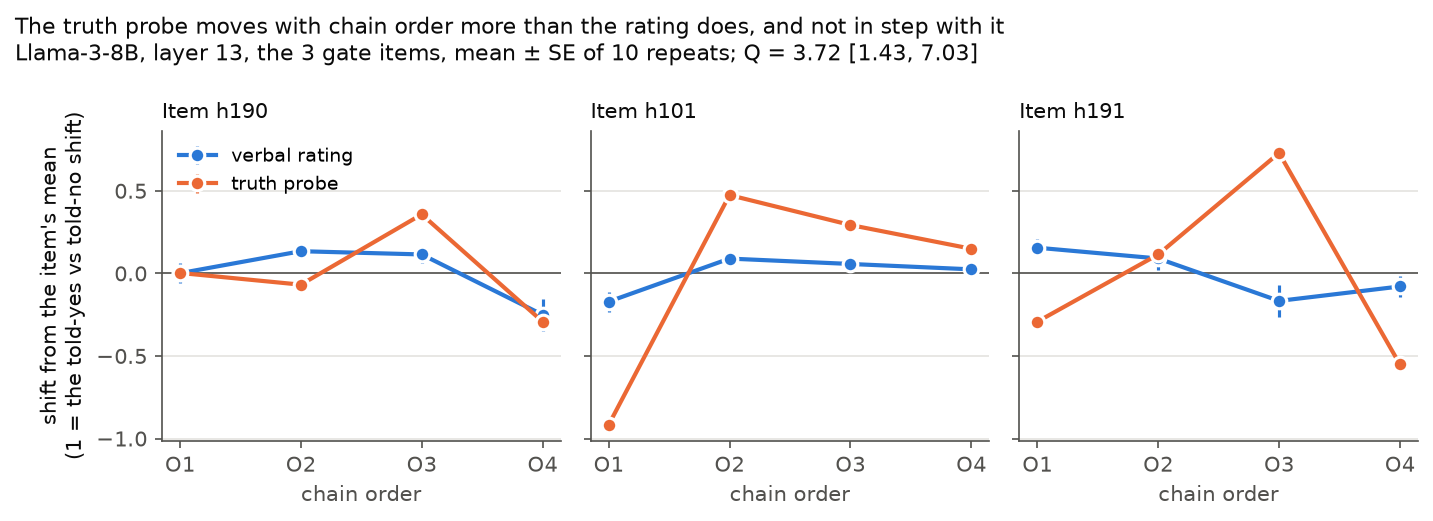
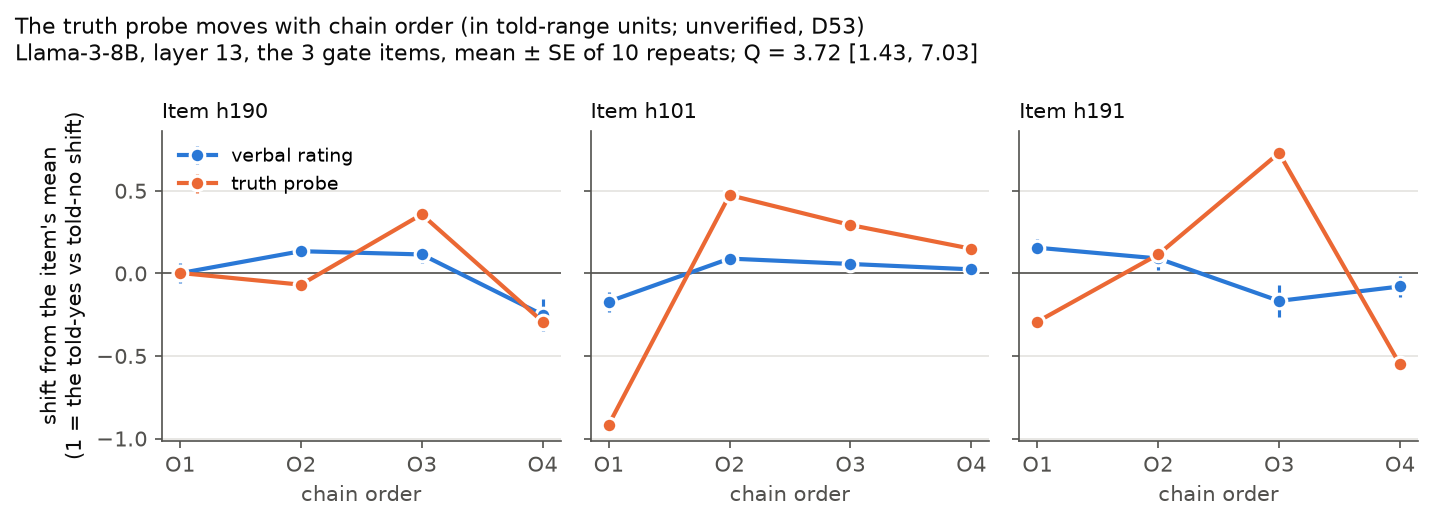
Probe-dissociation result (DP1) marked unverified: step 3 replayed the gate conversations (500 of 500 identical); fresh step 3 on new seeds queued on branch probes (ad1667d); figure title corrected (D53)

Changed region(s): [[0.307, 0.0307, 0.7062, 0.0921]]

diff --git a/experiments/probe_dissociation_figure.py b/experiments/probe_dissociation_figure.py
@@ -46,7 +46,7 @@ for ax, (title, q) in zip(axes, panels):
 axes[0].set_ylabel("shift from the item's mean\n(1 = the told-yes vs told-no shift)")
 axes[0].legend(frameon=False, loc="upper left", fontsize=9)
 s, c = res["stats"], res["ci"]
-fig.suptitle("The truth probe moves with chain order more than the rating does, and not in step with it\n"
+fig.suptitle("The truth probe moves with chain order (in told-range units; unverified, D53)\n"
              f"Llama-3-8B, layer {L}, the 3 gate items, mean \u00b1 SE of 10 repeats; Q = {s['Q']:.2f} "
              f"[{c['Q'][0]:.2f}, {c['Q'][1]:.2f}]", x=0.01, ha="left", fontsize=10.5, color=INK)
 fig.tight_layout()

diff --git a/DEVIATIONS.md b/DEVIATIONS.md
@@ -1043,6 +1043,28 @@ Where several audits targeted one sentence, their replacements were composed in 
 
 **Unchanged.** No quantum advantage and no quantum signature in either reading. The label moves from "could not tell apart" to "classical", because the parameter-free quantum signature is contradicted.
 
+## D53 — The probe-dissociation result (DP1) marked unverified; a fresh step 3 on new seeds queued for the probes worktree
+
+**Date:** 2026-11-04 13:19 MST, after the audit (`audits/probe-dissociation.md`, hole 1).
+
+**Why.** DP1's pre-registration says selection (the gate) and test (step 3) use different conversations. But both steps seed each conversation from the same key, `seed_for(f"{lm.name}|{qid}|{cell}|{rep}")`. The audit found step 3's O1–O4 and B0 verbal ratings identical to the gate's in 500 of 500 conversations.
+- So validity check V4 tested nothing.
+- Step 3's verbal order effects on the gate items are the selection data, with its winner's curse.
+- The frozen label, PROBE MOVES, BUT NOT WITH THE RATING, therefore rests on a test that was not independent of selection.
+
+**What changed.**
+- `results/probe-dissociation.md` (a banner under the title), README, the morning brief (a new direction-5 section) and `paper/gold-map.md` §5 (which said "Nothing yet") mark the DP1 result **unverified**.
+- The figure title (`probe_dissociation_figure.py`, `paper/figures/fig3-probe-dissociation.*`) no longer says the probe moves "more than the rating does, and not in step with it"; it says "unverified, D53".
+- Its numbers and label are kept, as recorded.
+
+**Queued.** On branch `probes`, commit `ad1667d`, `experiments/QUEUED-probe-step3-fresh-seeds.md` sets out a fresh step 3:
+- the same model, gate items, probe and layer, cells, R and analysis;
+- sampler seeds from a new namespace (`step3-fresh`);
+- a pre-run check that the fresh ratings do not replay the gate's;
+- the audit's alternative Q scalings, the Holm-corrected gate and r without h191, as secondaries.
+
+It is to be frozen as DP2 in its own commit before any run. Nothing has been run.
+
 ---
 
 # Probes branch (`probes`): entry DP1

diff --git a/paper/gold-map.md b/paper/gold-map.md
@@ -267,7 +267,7 @@ So the EIG of each possible check about *its own* main answer is computable. Tha
 - **Knowing more than they say.** Models can encode the right answer while generating a wrong one (Orgad et al., arXiv:2410.02707).
 - **The gap:** nobody has varied *question order* while reading probes.
 
-**What today's data say.** Nothing yet: Claude's internals are not available. The behavioural side, large graded order effects, is established in experiment 5.
+**What today's data say.** Claude's internals are not available. The behavioural side, graded order effects, is established in experiment 5. Since written: run on Llama-3-8B (DP1, `results/probe-dissociation.md`), with the frozen label PROBE MOVES, BUT NOT WITH THE RATING. That result is **unverified** (D53): its test step replayed the gate's conversations, and a fresh step 3 on new seeds is queued.
 
 **Cheapest falsifiable first test.**
 - **Model:** an open-weight model run locally. Good candidates are Llama-3-8B (4-bit) or Mistral-7B, where truth probes are established. Qwen2.5-1.5B is reported to have a truth axis (arXiv:2607.16741, search snippet only), but must be checked first.

diff --git a/results/probe-dissociation.md b/results/probe-dissociation.md
@@ -1,5 +1,7 @@
 # Belief versus readout: does a truth probe move with question order? (gold map direction 5)
 
+> **UNVERIFIED (D53).** Step 3 was meant to test on conversations different from the gate's, but both steps seed each conversation from the same key, so step 3's O1–O4 and B0 verbal ratings replay the gate's exactly (500 of 500 identical; `audits/probe-dissociation.md`, hole 1). Validity check V4 therefore tested nothing, and the gate items' verbal order effects are the selection data. The label and numbers below are kept as recorded but are not verified. A fresh step 3 on new seeds is queued on branch `probes` (`experiments/QUEUED-probe-step3-fresh-seeds.md`), to be frozen as DP2 before it runs.
+
 Pre-registered in `experiments/probe-dissociation.md` (DP1, numbered D48 on the `probes` branch; frozen in `9ef909d` before any call on the study items). Llama-3-8B-Instruct, 4-bit, run locally through MLX on an M2 Pro. 1,200 conversations, **$0 API**.
 
 ## In plain English

diff --git a/paper/morning-brief.md b/paper/morning-brief.md
@@ -117,6 +117,10 @@ Directions 1, 2 and 3 were re-run with Sonnet and Opus as the model under test, 
 - **On Sonnet the order effect survives hiding the record** (R = 2.95 [0.99, 12.55]; 2 items carry most of it). On Opus the test is not decisive.
 - **The paper.** `paper/no-credence-to-read.md` was narrowed to these limits (D48, new Section 4.6).
 
+### Gold-map direction 5: a truth probe on a local model (branch `probes`, merged; DP1, $0)
+
+- **Unverified (D53).** On Llama-3-8B the frozen label was PROBE MOVES, BUT NOT WITH THE RATING (Q = 3.72 [1.43, 7.03] in told-range units; r = +0.31 [−0.49, +0.99] over three gate items). But its test step replayed the gate's conversations exactly (500 of 500), so it was not independent of selection. A fresh step 3 on new seeds is queued on the `probes` branch. Details: `results/probe-dissociation.md`.
+
 ## What it means: a belief to read, or an answer built by the asking?
 
 **What points to construction.**

diff --git a/README.md b/README.md
@@ -28,6 +28,8 @@ Eleven pre-registered tests, six from `paper/gold-map.md` and five from `paper/b
 
 **No self-advantage in judging errors (Haiku and Sonnet).** With each judge's overall skill cancelled, authorship gives no advantage: the judge × author interaction is −0.055 [−0.103, −0.007], and Sonnet judges Haiku's errors better than Haiku does (0.93 against 0.85).
 
+**Gold-map direction 5, run later on a local model: unverified.** A truth probe in Llama-3-8B moves with chain order, and whether it moves in step with the rating is undetermined (DP1, [`results/probe-dissociation.md`](results/probe-dissociation.md)). The result is marked **unverified** (D53): its test step replayed the gate's conversations exactly, and a fresh run on new seeds is queued.
+
 **What is stable.**
 - Repeat answers within one prompt.
 - A consistent choice of relevant claims to check. Whether it prefers informative or confirmatory checks is undecided.
